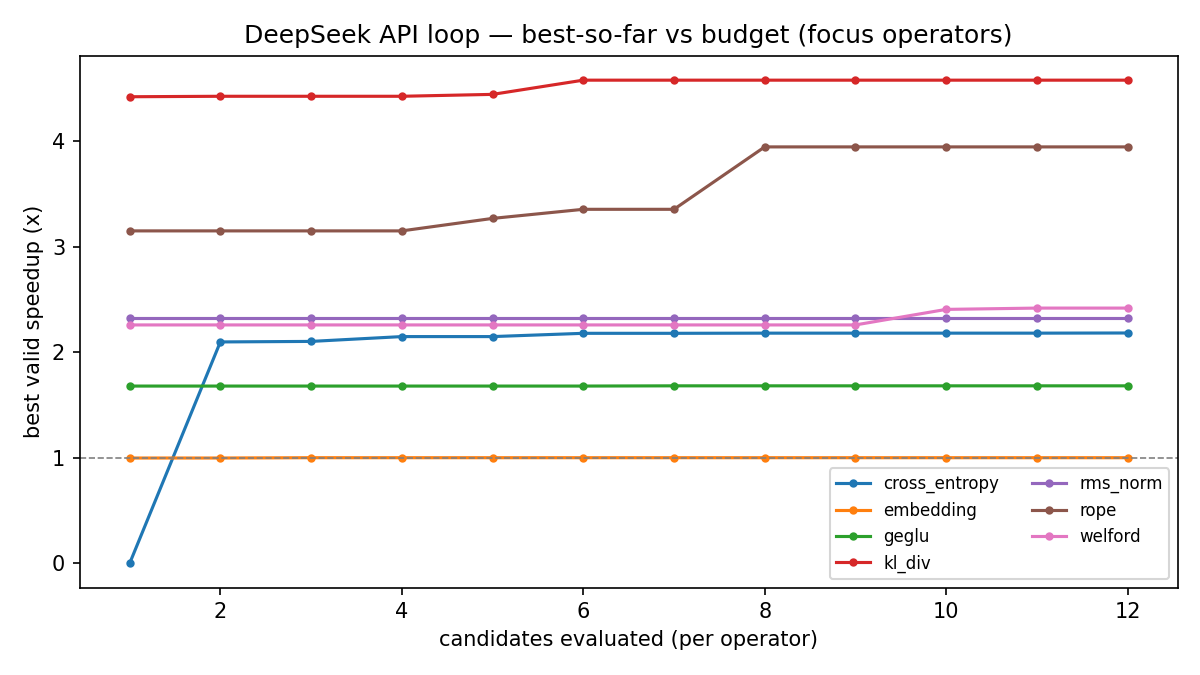
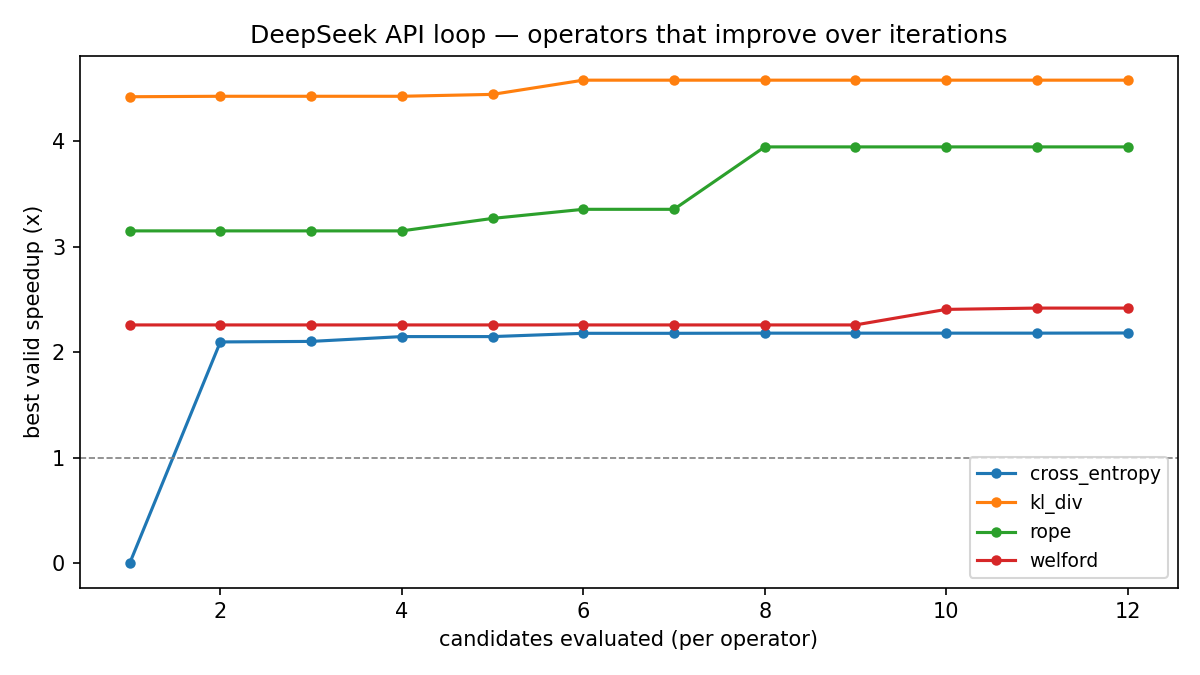
docs: update

diff --git a/report/REPORT.tex b/report/REPORT.tex
@@ -253,6 +253,17 @@ on 14 operators, 74\% were correct and 43\% of operators cleared $1.2\times$
   \label{fig:dsbar}
 \end{figure}
 
+\begin{figure}[t]
+  \centering
+  \includegraphics[width=\columnwidth]{figures/budget_curves.png}
+  \caption{Per-iteration optimization progress (DeepSeek API loop): best-so-far
+  speedup vs.\ candidates evaluated, for the focus operators whose search visibly
+  improves over iterations (flat-from-first-success operators omitted).
+  \texttt{cross\_entropy} is repaired at candidate~2; \texttt{rope} climbs via a
+  structural improvement around candidate~8.}
+  \label{fig:budget}
+\end{figure}
+
 \begin{table}[t]
   \centering \footnotesize
   \caption{DeepSeek API-loop totals (14 operators).}
@@ -399,9 +410,10 @@ strength.
 
 \textbf{Where the API loop wins.} Memory-bound operators reward a single good
 idea---fuse the passes---that the model already knows from the Liger family;
-correctness is then easy and the speedup follows. Budget curves (not shown) place
-most of the gain in the first few candidates, which argues for spending budget on
-seed diversity and fast repair rather than deep refinement. The control group
+correctness is then easy and the speedup follows. The budget curves
+(Fig.~\ref{fig:budget}) place most of the gain in the first few candidates, which
+argues for spending budget on seed diversity and fast repair rather than deep
+refinement. The control group
 matters: reporting $\approx 1.0\times$ where the roofline leaves no room is what
 makes the large speedups credible.
 

diff --git a/report/make_data_figs.py b/report/make_data_figs.py
@@ -128,12 +128,18 @@ def fig_budget_curves():
                 best = r["speedup"]
             xs.append(k)
             ys.append(best)
-        ax.plot(xs, ys, marker=".", label=op)
+        # keep only operators that visibly improve AFTER their first correct
+        # kernel (>=3% refinement gain); flat-from-first-success operators add
+        # no "optimization progress" signal.
+        first_ok = next((v for v in ys if v > 0), 0.0)
+        if first_ok <= 0 or max(ys) <= first_ok * 1.03:
+            continue
+        ax.plot(xs, ys, marker="o", ms=4, label=op)
     ax.axhline(1.0, ls="--", c="gray", lw=0.8)
     ax.set_xlabel("candidates evaluated (per operator)")
     ax.set_ylabel("best valid speedup (x)")
-    ax.set_title("DeepSeek API loop — best-so-far vs budget (focus operators)")
-    ax.legend(fontsize=8, ncol=2)
+    ax.set_title("DeepSeek API loop — operators that improve over iterations")
+    ax.legend(fontsize=9)
     fig.tight_layout()
     fig.savefig(FIG / "budget_curves.png", dpi=150)
     plt.close(fig)